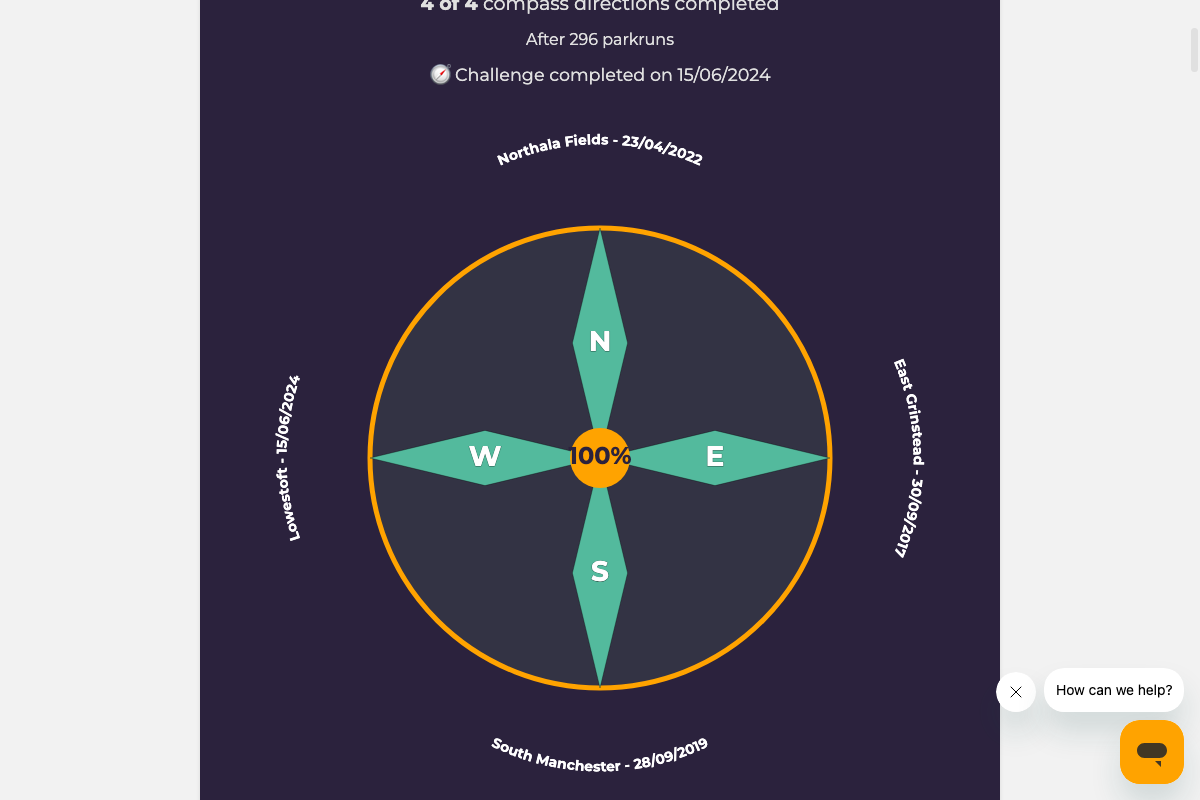
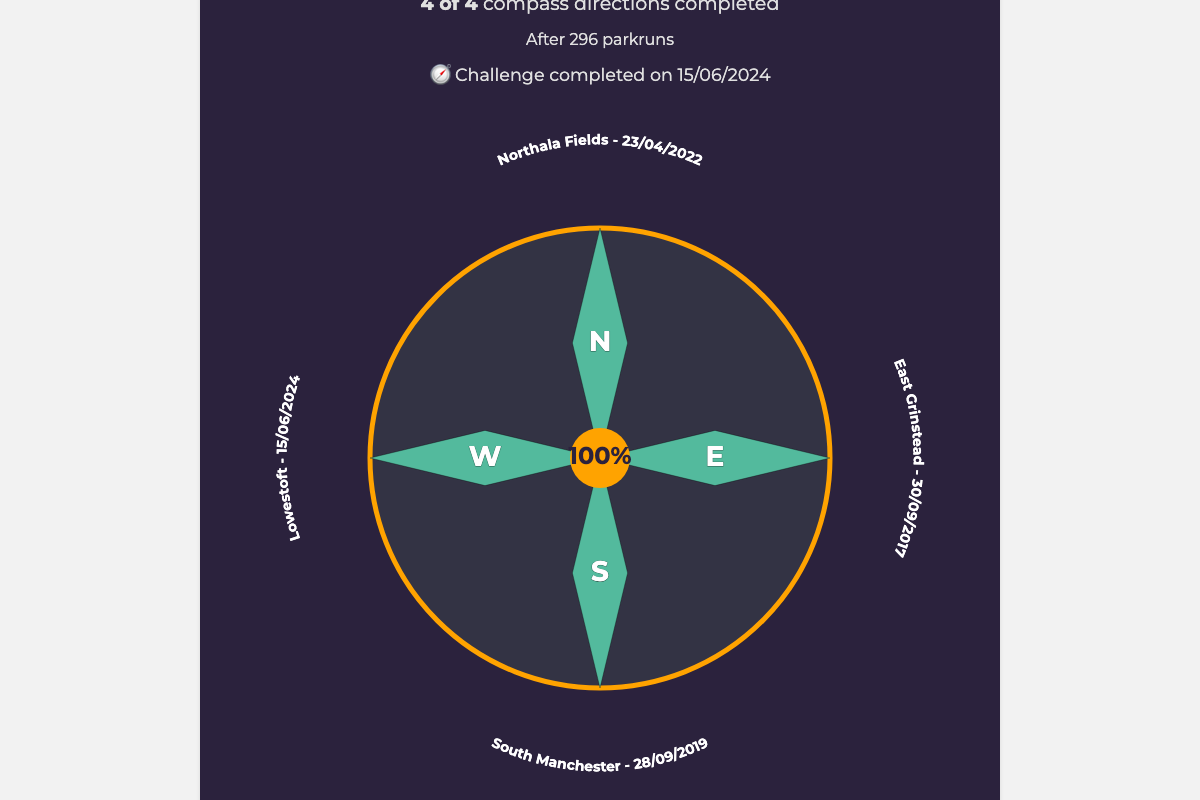
fix: validate response status and ensure detailed view for screenshots

Changed region(s): [[0.8942, 0.8438, 0.9867, 1.0]]

diff --git a/scripts/generate-screenshots.ts b/scripts/generate-screenshots.ts
@@ -144,7 +144,20 @@ async function generateScreenshots(): Promise<void> {
       }
 
       console.log(`🌐 Navigating to ${config.url}...`);
-      await page.goto(config.url, { waitUntil: 'networkidle2', timeout: 60000 });
+      const response = await page.goto(config.url, { waitUntil: 'networkidle2', timeout: 60000 });
+      
+      if (!response) {
+        console.error(`❌ Failed to load page: ${config.url}`);
+        return;
+      }
+      
+      const status = response.status();
+      if (status < 200 || status >= 300) {
+        console.error(`❌ Page returned status ${status}: ${config.url}`);
+        return;
+      }
+      
+      console.log(`✅ Page loaded successfully (status: ${status})`);
 
       await new Promise((resolve) => setTimeout(resolve, 3000));
 
@@ -210,7 +223,21 @@ async function generateScreenshots(): Promise<void> {
         }
       }
 
-      console.log('🧹 Cleaning up third-party content...');
+      console.log('🧹 Configuring page and cleaning up third-party content...');
+      await page.evaluate(() => {
+        // Set display to "detailed" if the select exists
+        const displaySelect = document.querySelector('select[name="display"]') as HTMLSelectElement;
+        if (displaySelect && displaySelect.value !== 'detailed') {
+          displaySelect.value = 'detailed';
+          // Trigger change event for any listeners
+          const changeEvent = new Event('change', { bubbles: true });
+          displaySelect.dispatchEvent(changeEvent);
+        }
+      });
+      
+      // Wait for any updates after changing the display
+      await new Promise((resolve) => setTimeout(resolve, 2000));
+
       await page.evaluate(() => {
         const selectorsToHide = [
           'iframe[src*="close"]',
